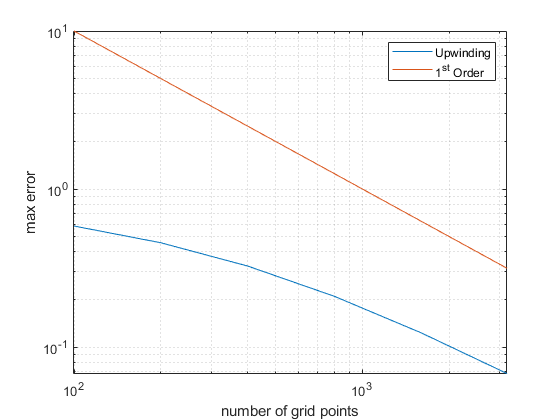
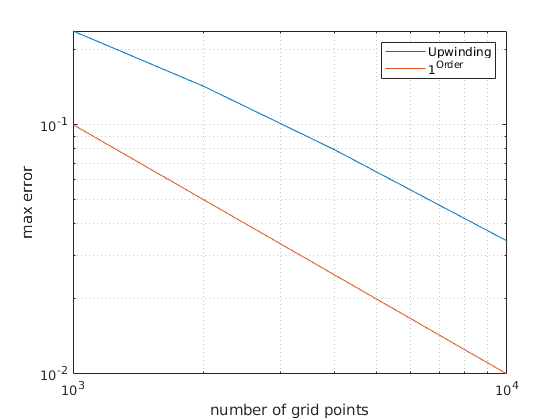
Update p3c.

diff --git a/hw9/plot_test.m b/hw9/plot_test.m
@@ -1,0 +1,15 @@
+close all
+clear
+
+
+%loglog([100 250 500 1000 2000 4000 10000],[6.49609e-1 4.91911e-1 3.59613e-1 2.37417e-1 1.42473e-1 7.94077e-2 3.41639e-2])
+loglog([1000 2000 4000 10000],[2.37417e-1 1.42473e-1 7.94077e-2 3.41639e-2])
+
+hold on
+%loglog([100 250 500 1000 2000 4000 10000],100*[1/100 1/250 1/500 1/1000 1/2000 1/4000 1/10000])
+loglog([1000 2000 4000 10000],100*[1/1000 1/2000 1/4000 1/10000])
+
+xlabel 'number of grid points'
+ylabel 'max error'
+grid minor
+legend 'Upwinding' '1^{Order}'

diff --git a/hw9/advection_up_pbc_3c.m b/hw9/advection_up_pbc_3c.m
@@ -19,7 +19,7 @@ bx = 1;
 tfinal = 1;                % final time
 
 h = (bx-ax)/(m+1);         % h = delta x
-k = 0.4*h                  % time step
+k = .9*h                  % time step
 nu = a*k/h;                % Courant number
 x = linspace(ax,bx,m+2)';  % note x(1)=0 and x(m+2)=1
                            % With periodic BC's there are m+1 unknowns u(2:m+2)

diff --git a/hw9/plot_3c.m b/hw9/plot_3c.m
@@ -1,0 +1,9 @@
+close all
+clear
+
+loglog([0.001 0.025 0.05 0.1 0.2 0.4],[3.25376e-1 3.20917e-1 3.16176e-1 3.06389e-1 2.85483e-1 2.37417e-1])
+
+xlabel 'k/h'
+ylabel 'max error'
+grid minor
+legend 'Upwinding' '1^{Order}'

diff --git a/hw8/comp_vel.m b/hw8/comp_vel.m
@@ -8,5 +8,5 @@ xi = 100;
 h = 0.0050;
 nu = 0.8000;
 
-dw = (a*cos(xi*h))/sqrt(1-nu*(sin(xi*h)^2))
+dw = (a*cos(xi*h))/sqrt(1-(nu*(sin(xi*h))^2))
 
